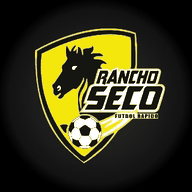
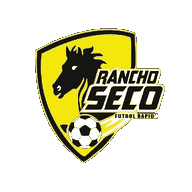
TRanchoseco: popup en blanco y escudo PNG sin fondo

diff --git a/TRanchoseco/index.html b/TRanchoseco/index.html
@@ -67,8 +67,20 @@ h3{margin:6px 0 10px}
 h4{margin:18px 0 8px}
 .modal-bg{position:fixed;inset:0;background:rgba(0,0,0,.65);display:none;align-items:flex-start;justify-content:center;padding:24px 12px;overflow:auto;z-index:20}
 .modal-bg.show{display:flex}
-.modal{background:var(--panel);border-radius:14px;width:100%;max-width:520px;padding:20px;box-shadow:0 20px 50px rgba(0,0,0,.5)}
+.modal{background:#fff;color:#111;border-radius:14px;width:100%;max-width:520px;padding:20px;box-shadow:0 20px 50px rgba(0,0,0,.5)}
 .modal form{margin:0}
+.modal h3,.modal h4{color:#111}
+.modal label{color:#444}
+.modal input,.modal select,.modal textarea{background:#fff;color:#111;border-color:#cfd3dc}
+.modal .muted{color:#666}
+.modal .bal div{background:#f3f4f6}
+.modal .bal small{color:#666}
+.modal .plist li{border-bottom-color:#e5e7eb}
+.modal .plist small{color:#666}
+.modal .btn.ghost{background:#e5e7eb;color:#111}
+.modal .chk{color:#111}
+.modal .pend{color:#dc2626}
+.modal .card{background:#f3f4f6}
 .bal{display:grid;grid-template-columns:1fr 1fr;gap:10px;margin:10px 0 16px}
 .bal div{background:#11131a;border-radius:10px;padding:10px}
 .bal b{display:block;font-size:15px;margin:3px 0}
